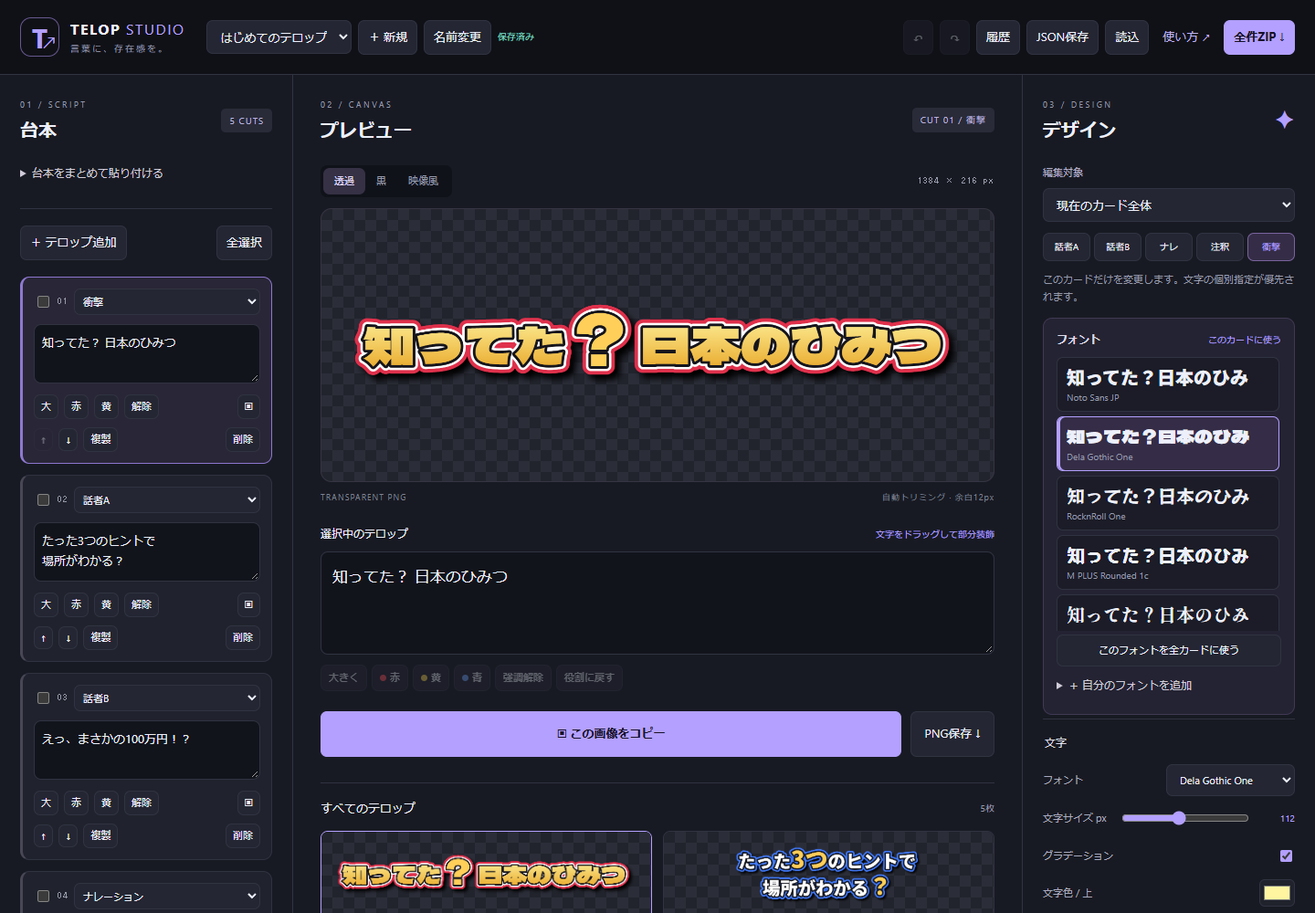
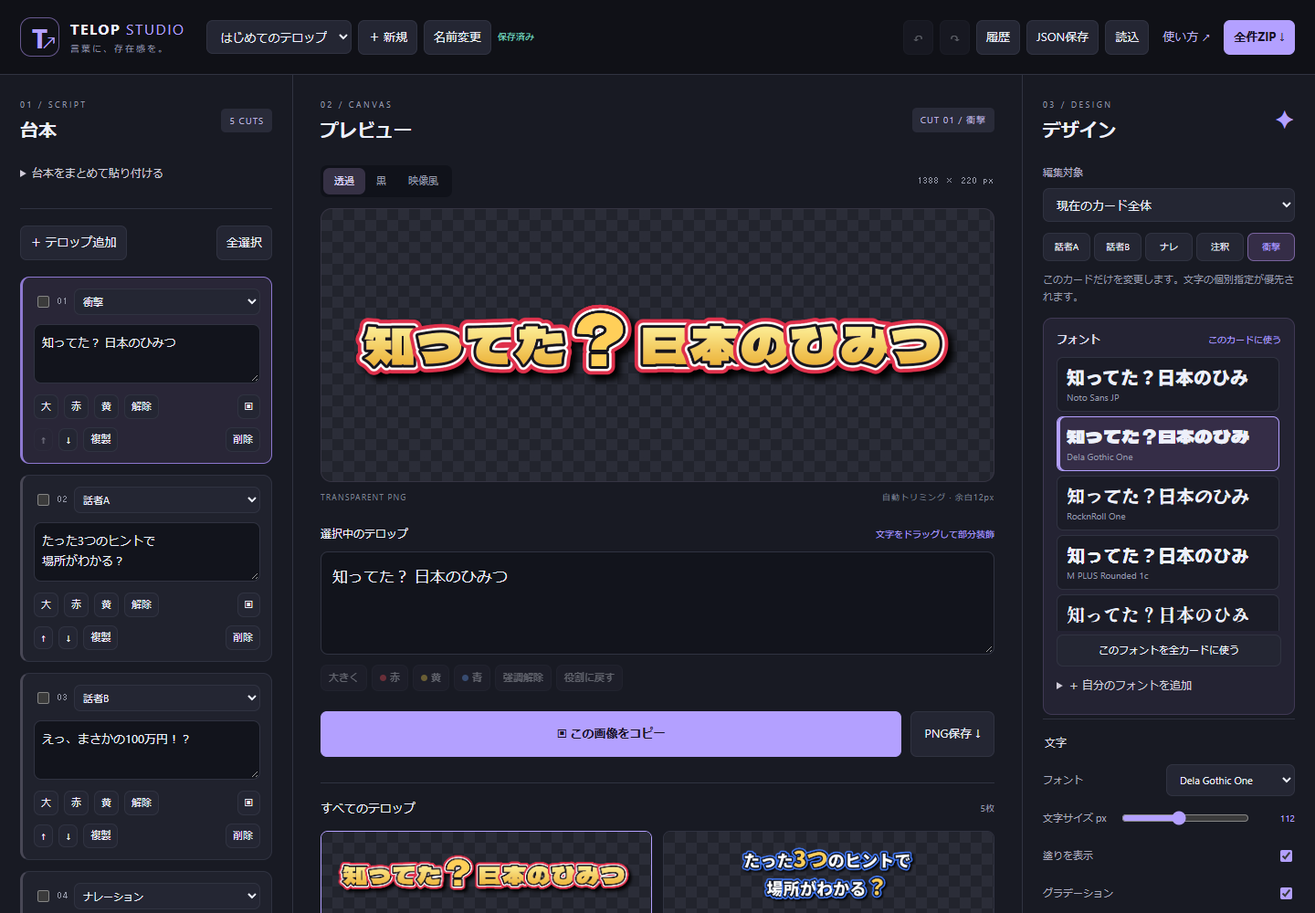
Add v1.2 fill, stroke positioning and per-line backgrounds

diff --git a/manual.html b/manual.html
@@ -1,4 +1,4 @@
-<!doctype html><html lang="ja"><head><meta charset="utf-8"><meta name="viewport" content="width=device-width,initial-scale=1"><title>Telop Studio — 使い方マニュアル</title><style>:root{color-scheme:dark}*{box-sizing:border-box}body{margin:0;background:#11131c;color:#e9edf8;font:15px/1.9 'Segoe UI',Meiryo,sans-serif}header{padding:58px max(24px,calc((100vw - 1040px)/2));background:linear-gradient(140deg,#28203d,#17212d);border-bottom:1px solid #403752}header p{color:#c2b6ed}h1{font-size:40px;line-height:1.3;margin:18px 0}main{max-width:1040px;margin:40px auto;padding:0 24px}h2{font-size:24px;margin:56px 0 18px;color:#c4b3ff}h3{margin-top:26px;font-size:17px}a{color:#bdb0ff}nav{display:flex;gap:20px;flex-wrap:wrap}img{width:100%;border:1px solid #474051;border-radius:12px}table{border-collapse:collapse;width:100%;font-size:14px}td,th{padding:12px 14px;border:1px solid #363848;text-align:left;vertical-align:top}th{background:#242332}pre,.note{background:#232536;border:1px solid #3d3b51;border-radius:9px;padding:18px;overflow:auto}code{color:#b8e6db}li{margin:8px 0}kbd{padding:2px 6px;background:#33354a;border-radius:4px}.badge{font-size:11px;letter-spacing:3px;color:#b6a6ee}footer{margin-top:60px;padding:24px 0;color:#9a9daf;font-size:12px}@media print{body{background:#fff;color:#222}header{background:#eee}h2,a{color:#503490}table,td,th{border-color:#aaa}.note,pre{background:#f3f3f3}h2{break-after:avoid}img{max-height:460px;object-fit:contain}}@media(max-width:600px){h1{font-size:30px}td,th{padding:8px;font-size:12px}}</style></head><body><header><span class="badge">TELOP STUDIO / USER GUIDE</span><h1>テロップを作って、<br>いつもの編集ソフトへ。</h1><p>Ver1.1の画面と操作に基づくマニュアル · 2026年10月17日</p><nav><a href="index.html">アプリを開く ↗</a><a href="specification.html">仕様書</a><a href="#start">起動</a><a href="#edit">文字を装飾</a><a href="#export">書き出し</a><a href="#github">GitHub公開</a></nav></header><main>
+<!doctype html><html lang="ja"><head><meta charset="utf-8"><meta name="viewport" content="width=device-width,initial-scale=1"><title>Telop Studio — 使い方マニュアル</title><style>:root{color-scheme:dark}*{box-sizing:border-box}body{margin:0;background:#11131c;color:#e9edf8;font:15px/1.9 'Segoe UI',Meiryo,sans-serif}header{padding:58px max(24px,calc((100vw - 1040px)/2));background:linear-gradient(140deg,#28203d,#17212d);border-bottom:1px solid #403752}header p{color:#c2b6ed}h1{font-size:40px;line-height:1.3;margin:18px 0}main{max-width:1040px;margin:40px auto;padding:0 24px}h2{font-size:24px;margin:56px 0 18px;color:#c4b3ff}h3{margin-top:26px;font-size:17px}a{color:#bdb0ff}nav{display:flex;gap:20px;flex-wrap:wrap}img{width:100%;border:1px solid #474051;border-radius:12px}table{border-collapse:collapse;width:100%;font-size:14px}td,th{padding:12px 14px;border:1px solid #363848;text-align:left;vertical-align:top}th{background:#242332}pre,.note{background:#232536;border:1px solid #3d3b51;border-radius:9px;padding:18px;overflow:auto}code{color:#b8e6db}li{margin:8px 0}kbd{padding:2px 6px;background:#33354a;border-radius:4px}.badge{font-size:11px;letter-spacing:3px;color:#b6a6ee}footer{margin-top:60px;padding:24px 0;color:#9a9daf;font-size:12px}@media print{body{background:#fff;color:#222}header{background:#eee}h2,a{color:#503490}table,td,th{border-color:#aaa}.note,pre{background:#f3f3f3}h2{break-after:avoid}img{max-height:460px;object-fit:contain}}@media(max-width:600px){h1{font-size:30px}td,th{padding:8px;font-size:12px}}</style></head><body><header><span class="badge">TELOP STUDIO / USER GUIDE</span><h1>テロップを作って、<br>いつもの編集ソフトへ。</h1><p>Ver1.2の画面と操作に基づくマニュアル · 2026年10月17日</p><nav><a href="index.html">アプリを開く ↗</a><a href="specification.html">仕様書</a><a href="#start">起動</a><a href="#edit">文字を装飾</a><a href="#export">書き出し</a><a href="#github">GitHub公開</a></nav></header><main>
 <img src="preview.png" alt="Telop Studioの3カラム編集画面。左に台本、中央にプレビューと入力欄、右にデザイン設定。">
 <h2 id="start">01 / 起動する</h2><p>GitHub Pagesで公開したURLを開けば、そのまま利用できます。ビルド・npm・Node.jsは不要です。Google FontsとJSZipをCDNから取得するため、インターネット接続が必要です。</p><p>ローカルでは、Pythonがインストールされている場合、同梱の <code>start-local.cmd</code> をダブルクリックします。ブラウザで <code>http://localhost:8766</code> を開き、終了時はサーバーのウィンドウで <kbd>Ctrl+C</kbd> を押します。</p><p>手動で起動する場合は、アプリのフォルダーで次を実行します。</p><pre><code>python -m http.server 8766 --bind 127.0.0.1</code></pre><p class="note">ES Modulesを使うため、<code>index.html</code> のダブルクリック（file://）では動きません。仕様書とこのマニュアルは、単独のHTMLとして開けます。localhostと127.0.0.1、ポート違い、GitHub公開URLはそれぞれ別の保存場所です。作業を移すときはJSONを使ってください。</p>
 <h2>02 / まず1枚作る</h2><ol><li>上部の「＋ 新規」でプロジェクトに名前を付けます。空のカードが1枚できます。</li><li>中央の「選択中のテロップ」に文字を入力します。Enterで画像内改行できます。</li><li>左のカードのプルダウンで役割を選びます。</li><li>右のフォント一覧から書体を選びます。配色も変える場合は、下部の「サンプルデザインを試す」を開き、サンプルを選んで「当てる」を押します。</li><li>「PNG保存 ↓」で透過画像を保存します。</li></ol><p>初回起動時は、5枚のサンプルが入った「はじめてのテロップ」が表示されます。サンプルを直接編集しても構いません。</p>
@@ -14,11 +14,11 @@ N: 『地形』に注目してみよう
 ! あなたは解ける？</code></pre><p><strong>空行が次のカードの区切り</strong>です。通常の改行は同じ画像内に残ります。カードを作った後は、左または中央の入力欄でいつでも編集できます。入力欄に文字装飾タグを直接書く必要はありません。</p><table><tr><th>行頭</th><th>役割</th><th>画像上の扱い</th></tr><tr><td>A: / Ａ：</td><td>話者A</td><td>記号を除去</td></tr><tr><td>B: / Ｂ：</td><td>話者B・ツッコミ</td><td>記号を除去</td></tr><tr><td>N: / Ｎ：</td><td>ナレーション</td><td>記号を除去</td></tr><tr><td>※</td><td>注釈</td><td>※を残す</td></tr><tr><td>! / ！</td><td>衝撃・タイトル</td><td>先頭記号を除去</td></tr><tr><td>なし</td><td>話者A</td><td>そのまま</td></tr></table><p>行頭判定は一括取り込み時に行います。作成済みのカード内で「B:」などを入力しても役割は変わりません。役割はプルダウンで変更してください。</p><p>カード下部の「↑」「↓」で順序変更、「複製」で装飾ごとコピー、「削除」で削除できます。「全選択」と各カードのチェックは、セットの複数適用に使います。</p>
 <h2 id="edit">04 / 1文字からデザインを変える</h2><ol><li>中央または左の入力欄で、変えたい文字をドラッグ選択します。</li><li>右の編集対象が「選択した文字」に切り替わります。</li><li>「大きく」「赤」「黄」「青」で素早く変更するか、右の詳細設定を変更します。</li></ol><p>選択した文字だけのフォント・サイズ・グラデーション・3重フチ・影を変更できます。設定欄をクリックして入力欄のハイライトが消えても、最後に選択した範囲を保持します。画面の「○文字を選択中」を目印にしてください。</p><table><tr><th>編集対象</th><th>反映範囲</th></tr><tr><td>現在のカード全体</td><td>今選んでいる1枚だけ。座布団・文字揃えもここで設定。</td></tr><tr><td>選択した文字</td><td>選択範囲だけ。複数文字で設定が異なる場合、右欄には先頭文字の手動設定を表示。</td></tr><tr><td>役割の共通設定</td><td>その役割を継承するカード。下の役割タブで対象を切り替える。</td></tr></table><p><strong>文字の個別指定 → カード個別設定 → 役割共通設定</strong>の順に優先します。自動強調よりも手動の指定が優先されます。例えば手動で色だけ指定した場合、自動強調のサイズ倍率は引き続き有効です。</p><p>「強調解除」は、選択範囲の手動装飾と自動強調を外します。「役割に戻す」は文字の個別指定を消し、カード／役割設定と自動強調を再び継承します。カード全体の「初期値に戻す」はカード個別設定を外し、役割の共通設定に戻します。文字単位の設定は別途解除してください。</p><p>文字を修正した場合、変更されなかった前後の文字の装飾は維持します。新しく入力・置換した文字は個別装飾なしで入り、カードの設定を引き継ぎます。</p>
 <h2>Ver1.1 / 自分のフォントを使う</h2><p>右パネルに見本付きのフォント一覧が加わりました。クリックすると「編集対象」に指定したカード・文字・役割へ反映します。「このフォントを全カードに使う」は、全役割を更新し、カードや部分装飾のフォント指定も揃えます。色やサイズは残ります。「戻る」で取り消せます。</p><ol><li>「＋ 自分のフォントを追加」を開きます。</li><li>フォントファイルから追加する場合は、.ttf / .otf / .woff / .woff2 を選びます。1ファイル30MBまで。登録名はファイル名を基に付きます。</li><li>PCのフォントを使う場合は「PCに入っているフォントから選ぶ」を押し、ブラウザの読み取り許可後に名前で検索します。対応しない環境ではフォント名を直接入力して追加できます。</li><li>追加後、一覧のフォントをクリックして適用します。</li></ol><p>ファイルから追加したフォントはIndexedDBへ保存され、同じブラウザ・同じ公開URLで再利用できます。PCフォントは名前を保存するため、そのPCにインストールされている必要があります。JSONにはフォントファイル本体を含みません。別PCでは同じ名前のフォントを追加してください。削除用の「×」で一覧から外すと、そのフォントを使う文字は代替表示になります。フォントの追加・削除自体は編集履歴の対象外です。</p><p>サンプル適用時の「フォントは今のまま」は初期状態でONです。配色と装飾だけ変えたいときに使います。サンプルに指定されたフォントも使いたい場合はOFFにしてください。</p><h2>05 / デザインセットとマイセット</h2><p>「標準」「解説」「実況」「シリアス」「謎解き」から選び、適用先を「現在のカード」「チェックしたカード」「すべてのカード」から指定します。「部分装飾を残す」を外すと、対象カード内の文字単位の装飾も初期化されます。</p><p>セットを適用したカードには個別設定が付きます。その後で役割の共通設定を変えても、セットから適用した値が優先されます。共通設定に戻したい場合は、そのカードの編集対象を「現在のカード全体」にして「初期値に戻す」を押します。</p><p>「現在の5役割をマイセットに保存」で名前を付けて保存できます。役割の共通設定5つを保存し、現在のカードに個別設定があれば、そのカードの役割には現在の見た目を取り込みます。文字ごとの部分装飾はマイセットに含まれず、プロジェクト側に保存されます。</p><p>マイセットは同じブラウザ内の全プロジェクトで使えます。「マイセット書出」「読込」で別の環境に移せます。</p>
-<h2>06 / 細かいデザイン設定</h2><ul><li><strong>文字：</strong>内蔵5フォント＋追加フォント、12〜240px、単色または上下グラデーション。</li><li><strong>フチ：</strong>1が内側、2が中間、3が外側。太さは外へ積み上がります。各層でON/OFF・色・太さを指定。</li><li><strong>影：</strong>ぼかし・右下への距離・色を設定。</li><li><strong>座布団：</strong>背景色・不透明度・角丸・内側余白・枠線。枠線にも設定した不透明度が適用されます。</li><li><strong>文字揃え：</strong>複数行を左・中央・右で配置。長い文章は自動折り返ししないため、入力欄で改行してください。</li><li><strong>自動強調：</strong>100万円・99%・3つなど、感嘆符、疑問符、『』と【】で囲んだ箇所を検出。倍率と強調色を変更できます。</li></ul><p>プレビューの「透過」「黒」「映像風」は確認用背景です。PNGには背景を含めず、座布団を有効にした場合だけ指定した背景ボックスが含まれます。</p>
+<h2>Ver1.2 / アピアランスの調整</h2><p>右の「文字」にある「塗りを表示」をOFFにすると、文字本体を消してフチだけを出力できます。塗りとすべてのフチをOFFにすると、文字の影も消えます。背景をONにすれば座布団だけを出力できます。</p><p>各「フチ1〜3」の「位置」で外側・中央・内側を選びます。外側は輪郭の外、内側は文字の中、中央は輪郭をまたいで描きます。同じ位置のフチは1から順に太さを積み上げます。位置が異なるフチ同士は別々に計算し、重なる場所では番号の小さいフチが手前になります。</p><p>「線の詳細設定」を開くと、角の結合をラウンド（丸い）・マイター（尖る）・ベベル（角を落とす）から選べます。「角の比率」はマイターが長く伸びすぎるのを制限します。線端はバット・丸型・角型を選べますが、フォントの輪郭は通常閉じているため、文字では見た目が変わらないのが正常です。</p><p>「座布団・配置」の「背景の範囲」は、すべての行をまとめて囲むか、1行ずつの文字幅に合わせて囲むかを選択できます。空の行には行別背景を描きません。内側余白が大きい場合、隣の行の背景とつながります。</p><p>塗り・フチ位置・角の設定は1文字単位にも適用できます。背景の範囲はカード全体または役割に適用します。各設定は履歴・プロジェクト・マイセット・JSONに保存されます。既存プロジェクトは、塗りON・外側フチ・ラウンド・全行背景を初期値として読み込みます。</p><h2>06 / 細かいデザイン設定</h2><ul><li><strong>文字：</strong>内蔵5フォント＋追加フォント、12〜240px、単色または上下グラデーション。</li><li><strong>フチ：</strong>各層でON/OFF・色・太さ・位置を指定。同じ位置では1から順に太さを積み上げます。</li><li><strong>影：</strong>ぼかし・右下への距離・色を設定。</li><li><strong>座布団：</strong>背景色・不透明度・角丸・内側余白・枠線。枠線にも設定した不透明度が適用されます。</li><li><strong>文字揃え：</strong>複数行を左・中央・右で配置。長い文章は自動折り返ししないため、入力欄で改行してください。</li><li><strong>自動強調：</strong>100万円・99%・3つなど、感嘆符、疑問符、『』と【】で囲んだ箇所を検出。倍率と強調色を変更できます。</li></ul><p>プレビューの「透過」「黒」「映像風」は確認用背景です。PNGには背景を含めず、座布団を有効にした場合だけ指定した背景ボックスが含まれます。</p>
 <h2 id="export">07 / 保存して動画編集ソフトへ</h2><h3>単体PNG</h3><p>中央の「PNG保存 ↓」で現在の1枚を保存します。出力画像にはフチと影を含め、可視部分の周囲に12pxの透明余白を付けます。文字数やデザインにより画像寸法が変わるため、編集ソフトでは位置と倍率を確認してください。</p><h3>全件ZIP</h3><p>上部の「全件ZIP ↓」で、カード順に連番を付けてまとめます。ZIPを展開してから編集ソフトへ読み込みます。出力開始時点の台本を使うため、出力中の編集はそのZIPへ反映されません。</p><pre><code>001_A_たった3つのヒントで.png
 002_B_えっ、まさかの100万円！？.png
 003_N_『地形』に注目してみよう.png</code></pre><p>タイトルの役割名はTITLE、注釈はNOTEで出力します。ファイル名に使えない記号は除去します。</p><h3>画像コピー</h3><p>中央の「この画像をコピー」、左のカードの「▣」、サムネイルの「コピー」からPNGをコピーできます。HTTPSまたはlocalhostの対応ブラウザが必要です。ブラウザの権限を求められた場合はコピーを許可してください。</p><p class="note">ブラウザの画像コピー成功は確認済みですが、Clipchamp／Premiereへの直接Ctrl+V取り込みは実機未検証です。貼り付けを受け付けない場合はPNG保存を使ってください。</p><h3>Clipchampで使う</h3><ol><li>PNGを保存します。一括ZIPの場合は展開します。</li><li>Clipchampの「メディアのインポート」からPNGを読み込みます。</li><li>映像より上のトラックへ画像を配置します。</li><li>画面内の位置・大きさ・表示時間を調整します。</li></ol><p>画像をインポートして映像の上に重ねる流れは、<a href="https://support.microsoft.com/en-us/clipchamp/how-to-add-a-logo-to-a-video" target="_blank" rel="noreferrer">Microsoft公式の画像配置手順</a>に基づきます。今回、ユーザーのClipchampプロジェクトを操作しての取り込み確認はしていません。</p>
 <h2>08 / 保存・バックアップ・履歴</h2><p>変更は短い待ち時間の後にブラウザへ自動保存されます。プロジェクト切り替えは上部の名前欄から行います。ブラウザのデータ削除や別ブラウザへの変更では保存データを引き継げません。</p><ul><li><strong>JSON保存：</strong>現在のプロジェクトとマイセット一覧を書き出します。画像だけでなく、後から装飾を編集できる状態を保存します。</li><li><strong>読込：</strong>プロジェクトを新しい項目として追加します。既存のものを上書きしません。</li><li><strong>↶ / ↷：</strong>戻る・やり直す。WindowsではCtrl+Z、Ctrl+Shift+ZまたはCtrl+Yも利用できます。</li><li><strong>履歴：</strong>一覧から戻したい状態を選べます。直近50操作とその前の基準状態を保持します。</li></ul><p>連続入力と短時間の同じスライダー操作は1操作にまとめます。履歴はプロジェクトごとに保持しますが、アプリを再読み込みすると最新状態だけが残ります。プロジェクト新規作成・切り替え、マイセット登録、JSON読み込みは編集履歴の対象外です。</p>
 <h2 id="github">09 / GitHub Pagesで公開する</h2><ol><li>GitHubで公開先リポジトリを用意します。</li><li>配布ZIPを展開し、<strong>telop-studioフォルダーの中身</strong>をリポジトリのルートに置きます。<code>index.html</code> と <code>js/</code> がルート直下になる形です。</li><li>リポジトリの <strong>Settings → Pages</strong> を開きます。</li><li>Sourceで <strong>Deploy from a branch</strong> を選び、Branchを <strong>main</strong>、フォルダーを <strong>/(root)</strong> にして保存します。</li><li>公開完了後、Pages画面に表示されたURLを開きます。</li></ol><p><a href="https://docs.github.com/en/pages/getting-started-with-github-pages/configuring-a-publishing-source-for-your-github-pages-site" target="_blank" rel="noreferrer">GitHub公式：公開元の設定</a>。同梱の <code>.nojekyll</code> を含めて配置してください。ビルド設定は不要です。このアプリの公開先は <a href="https://sakrainari.github.io/telopstudio/">sakrainari.github.io/telopstudio</a> です。mainブランチのルートを公開元に設定しています。</p>
 <h2>10 / 困ったとき</h2><table><tr><th>状況</th><th>対処</th></tr><tr><td>操作が反応しない</td><td>file://ではなくHTTP/HTTPSで開いているか確認。JavaScriptを有効にする。</td></tr><tr><td>フォントが違う</td><td>インターネット接続後に再読み込み。CDNが遮断される環境では代替フォントになる。</td></tr><tr><td>役割の色を変えても反映しない</td><td>カードや文字の個別設定が優先されていないか確認。必要な範囲だけ継承へ戻す。</td></tr><tr><td>コピーできない</td><td>HTTPS／localhostとブラウザ権限を確認し、PNG保存を利用。</td></tr><tr><td>ZIPを作れない</td><td>JSZipのCDN読み込みを確認。描画エラーがある場合は表示された番号のカードを修正。</td></tr><tr><td>画像が大きすぎる</td><td>改行、文字サイズ縮小、カード分割。作業Canvasは一辺16384px・総面積2400万画素以内。</td></tr><tr><td>保存失敗が出た</td><td>LocalStorageの容量や利用制限を確認。まずJSONで保存する。</td></tr></table><p>上限はプロジェクト100件、1プロジェクト300枚、1枚5000文字、マイセット100件、読み込みJSON 20MBです。実際にブラウザへ保存できる量は環境の容量制限にも依存します。</p>
-<h2>11 / 確認したこと</h2><p>Ver1.1ではChromeで実フォントファイルの読み込み・IndexedDBからの復元・フォント名のJSON維持・全カードへの変更と取り消し・サンプル適用時のフォント保持・破損フォントの拒否・PCフォントの実一覧取得と検索を確認しました。</p><p>Chromeの実ブラウザで、初期5役割、空行分割、部分装飾、文字編集後の装飾維持、戻る／やり直す、履歴表示、新規プロジェクト、LocalStorage復元、JSON往復、マイセット登録、セット適用時の部分装飾保持、PNG／ZIPダウンロード、Clipboard APIの画像コピーを確認しました。全5役割の出力画像で12pxの透明余白と、ZIP内のPNG署名・連番を検査しています。</p><p>Clipchamp／Premiereでの取り込み、他ブラウザでの画像コピーは未検証です。</p><footer>Telop Studio · 仕様書 → 実装 → 動作検証 → 本マニュアルの順で作成。Google Fonts / JSZipを利用。</footer></main></body></html>
+<h2>11 / 確認したこと</h2><p>Ver1.2ではフチ位置による実際の画像寸法の違い、内側フチの中抜き、塗り・フチOFF時の不要な影がないこと、角の結合による画素差、マイターの見切れ防止、行別背景の範囲、透明余白12px、設定の保存復元・JSON保持を検証しました。既存の編集・フォント追加・PNG／ZIP出力の回帰テストも通過しています。</p><p>Ver1.1ではChromeで実フォントファイルの読み込み・IndexedDBからの復元・フォント名のJSON維持・全カードへの変更と取り消し・サンプル適用時のフォント保持・破損フォントの拒否・PCフォントの実一覧取得と検索を確認しました。</p><p>Chromeの実ブラウザで、初期5役割、空行分割、部分装飾、文字編集後の装飾維持、戻る／やり直す、履歴表示、新規プロジェクト、LocalStorage復元、JSON往復、マイセット登録、セット適用時の部分装飾保持、PNG／ZIPダウンロード、Clipboard APIの画像コピーを確認しました。全5役割の出力画像で12pxの透明余白と、ZIP内のPNG署名・連番を検査しています。</p><p>Clipchamp／Premiereでの取り込み、他ブラウザでの画像コピーは未検証です。</p><footer>Telop Studio · 仕様書 → 実装 → 動作検証 → 本マニュアルの順で作成。Google Fonts / JSZipを利用。</footer></main></body></html>

diff --git a/js/renderer.js b/js/renderer.js
@@ -3,37 +3,53 @@ import {allFonts,weightOf} from './fonts.js';
 import {tokens} from './parser.js';
 export function fontString(style){return `${weightOf(style.font)} ${style.size}px "${style.font}", sans-serif`;}
 export function loadFonts(text='日本語テロップ'){return Promise.allSettled(allFonts().map(({family:font})=>document.fonts.load(fontString({font,size:40}),text||'日本語テロップ')));}
-const canvas=(w,h)=>{const c=document.createElement('canvas');c.width=w;c.height=h;return c;};
+const canvas=(w,h)=>{const c=document.createElement('canvas');c.width=Math.ceil(w);c.height=Math.ceil(h);return c;};
 export function crop(source){
- const ctx=source.getContext('2d',{willReadFrequently:true}),{width:w,height:h}=source,data=ctx.getImageData(0,0,w,h).data;
+ const {width:w,height:h}=source,data=source.getContext('2d',{willReadFrequently:true}).getImageData(0,0,w,h).data;
  let minX=w,minY=h,maxX=-1,maxY=-1;
  for(let y=0;y<h;y++)for(let x=0;x<w;x++)if(data[(y*w+x)*4+3]>0){minX=Math.min(minX,x);maxX=Math.max(maxX,x);minY=Math.min(minY,y);maxY=Math.max(maxY,y);}
  if(maxX<0)return canvas(24,24);
  if(minX===0||minY===0||maxX===w-1||maxY===h-1)throw Error('描画範囲を超えました。文字サイズ・影を小さくしてください。');
  const out=canvas(maxX-minX+25,maxY-minY+25);out.getContext('2d').drawImage(source,minX,minY,maxX-minX+1,maxY-minY+1,12,12,maxX-minX+1,maxY-minY+1);return out;
 }
+const position=e=>e.position||'outside';
+// Widths stack only with preceding strokes on the same side of the glyph.
+function strokeWidth(s,index){const e=s.edges[index];return s.edges.slice(0,index+1).reduce((n,x)=>n+(x.on&&position(x)===position(e)?x.width:0),0)*(position(e)==='center'?1:2);}
+function extent(s){return s.edges.reduce((n,e,i)=>Math.max(n,e.on&&position(e)!=='inside'?strokeWidth(s,i)/2:0),0)*(s.lineJoin==='miter'?(s.miterLimit||2):1);}
+function glyph(t){
+ const s=t.style,pad=Math.ceil(extent(s)+s.size*.3+8),w=Math.ceil(t.width+pad*2),h=Math.ceil(t.ascent+t.descent+pad*2),x=pad,y=pad+t.ascent;
+ const mask=canvas(w,h),mc=mask.getContext('2d');mc.font=fontString(s);mc.fillText(t.char,x,y);
+ const out=canvas(w,h),ctx=out.getContext('2d');
+ if(s.fillOn!==false){ctx.font=fontString(s);ctx.fillStyle=s.color;if(s.gradient){const g=ctx.createLinearGradient(0,pad,0,pad+t.ascent+t.descent);g.addColorStop(0,s.color);g.addColorStop(1,s.color2);ctx.fillStyle=g;}ctx.fillText(t.char,x,y);}
+ const layer=canvas(w,h),lc=layer.getContext('2d');
+ for(let i=2;i>=0;i--){const e=s.edges[i];if(!e.on||!e.width)continue;lc.clearRect(0,0,w,h);lc.font=fontString(s);lc.lineJoin=s.lineJoin||'round';lc.lineCap=s.lineCap||'butt';lc.miterLimit=s.miterLimit||2;lc.lineWidth=strokeWidth(s,i);lc.strokeStyle=e.color;lc.strokeText(t.char,x,y);
+  if(position(e)!=='center'){lc.globalCompositeOperation=position(e)==='inside'?'destination-in':'destination-out';lc.drawImage(mask,0,0);lc.globalCompositeOperation='source-over';}
+  ctx.drawImage(layer,0,0);
+ }
+ return {image:out,pad};
+}
 export function render(row,roles){
  const style=mergeStyle(roles[row.role],row.override),measure=canvas(1,1).getContext('2d');
- const lines=[{items:[],width:0,ascent:style.size*.85,descent:style.size*.2}];let effect=0,maxSize=style.size;
+ const makeLine=()=>({items:[],width:0,ascent:style.size*.85,descent:style.size*.2});const lines=[makeLine()];let effect=0,maxSize=style.size;
  for(const token of tokens(row,style)){
-  if(token.char==='\n'){lines.push({items:[],width:0,ascent:style.size*.85,descent:style.size*.2});continue;}
-  const s=token.style;measure.font=fontString(s);const m=measure.measureText(token.char),line=lines.at(-1);
-  line.items.push({...token,x:line.width});line.width+=m.width;
-  line.ascent=Math.max(line.ascent,m.actualBoundingBoxAscent||s.size*.85);line.descent=Math.max(line.descent,m.actualBoundingBoxDescent||s.size*.2);
-  maxSize=Math.max(maxSize,s.size);const stroke=s.edges.reduce((n,e)=>n+(e.on?e.width:0),0);
-  effect=Math.max(effect,stroke+(s.shadow.on?s.shadow.blur*4+s.shadow.distance:0),Math.abs(m.actualBoundingBoxLeft||0),Math.max(0,(m.actualBoundingBoxRight||0)-m.width));
+  if(token.char==='\n'){lines.push(makeLine());continue;}
+  const s=token.style;measure.font=fontString(s);const m=measure.measureText(token.char),line=lines.at(-1),ascent=Math.max(s.size*.85,m.actualBoundingBoxAscent||0),descent=Math.max(s.size*.2,m.actualBoundingBoxDescent||0);
+  line.items.push({...token,x:line.width,width:m.width,ascent,descent});line.width+=m.width;line.ascent=Math.max(line.ascent,ascent);line.descent=Math.max(line.descent,descent);
+  maxSize=Math.max(maxSize,s.size);effect=Math.max(effect,extent(s)+(s.shadow.on?s.shadow.blur*4+s.shadow.distance:0),Math.abs(m.actualBoundingBoxLeft||0),Math.max(0,(m.actualBoundingBoxRight||0)-m.width));
  }
  const gap=Math.max(16,maxSize*.18+effect*.12),textW=Math.max(1,...lines.map(l=>l.width)),textH=lines.reduce((n,l)=>n+l.ascent+l.descent,0)+gap*(lines.length-1);
  const pad=style.box.on?style.box.padding:0,margin=Math.ceil(effect+maxSize*.3+style.box.border+32),w=Math.ceil(textW+pad*2+margin*2),h=Math.ceil(textH+pad*2+margin*2);
  if(w>16384||h>16384||w*h>24000000)throw Error('画像が大きすぎます。カードを分割するか、改行・文字サイズを調整してください。');
- const work=canvas(w,h),ctx=work.getContext('2d',{willReadFrequently:true});ctx.lineJoin='round';ctx.miterLimit=2;
- if(style.box.on){const b=style.box;ctx.save();ctx.globalAlpha=b.opacity;ctx.fillStyle=b.color;ctx.strokeStyle=b.borderColor;ctx.lineWidth=b.border;ctx.beginPath();ctx.roundRect(margin,margin,textW+pad*2,textH+pad*2,b.radius);ctx.fill();if(b.border>0)ctx.stroke();ctx.restore();}
- const positioned=[];let y=margin+pad;
- for(const line of lines){const offset=style.align==='left'?0:style.align==='right'?textW-line.width:(textW-line.width)/2;
-  for(const t of line.items)positioned.push({...t,x:margin+pad+offset+t.x,y:y+line.ascent,ascent:line.ascent,descent:line.descent});y+=line.ascent+line.descent+gap;}
- // Render complete layers, so adjacent glyph outlines never paint over fills.
- for(const t of positioned){const s=t.style;if(!s.shadow.on)continue;ctx.save();ctx.font=fontString(s);ctx.shadowColor=s.shadow.color;ctx.shadowBlur=s.shadow.blur;ctx.shadowOffsetX=s.shadow.distance;ctx.shadowOffsetY=s.shadow.distance;ctx.fillStyle=s.edges.findLast(e=>e.on)?.color||s.color;const width=s.edges.reduce((n,e)=>n+(e.on?e.width:0),0);if(width){ctx.lineWidth=width*2;ctx.strokeStyle=ctx.fillStyle;ctx.strokeText(t.char,t.x,t.y);}ctx.fillText(t.char,t.x,t.y);ctx.restore();}
- for(let layer=2;layer>=0;layer--)for(const t of positioned){const s=t.style;if(!s.edges[layer].on)continue;const width=s.edges.slice(0,layer+1).reduce((n,e)=>n+(e.on?e.width:0),0);if(!width)continue;ctx.font=fontString(s);ctx.lineWidth=width*2;ctx.strokeStyle=s.edges[layer].color;ctx.strokeText(t.char,t.x,t.y);}
- for(const t of positioned){const s=t.style;ctx.font=fontString(s);ctx.fillStyle=s.color;if(s.gradient){const g=ctx.createLinearGradient(0,t.y-t.ascent,0,t.y+t.descent);g.addColorStop(0,s.color);g.addColorStop(1,s.color2);ctx.fillStyle=g;}ctx.fillText(t.char,t.x,t.y);}
- return crop(work);
+ const work=canvas(w,h),ctx=work.getContext('2d',{willReadFrequently:true}),foreground=canvas(w,h),fg=foreground.getContext('2d');let y=margin+pad;
+ for(const line of lines){line.left=margin+pad+(style.align==='left'?0:style.align==='right'?textW-line.width:(textW-line.width)/2);line.top=y;y+=line.ascent+line.descent+gap;}
+ if(style.box.on){const b=style.box,back=canvas(w,h),bc=back.getContext('2d');bc.fillStyle=b.color;bc.strokeStyle=b.borderColor;bc.lineWidth=b.border;
+  const rectangles=b.mode==='line'?lines.filter(l=>l.items.length).map(l=>[l.left-pad,l.top-pad,l.width+pad*2,l.ascent+l.descent+pad*2]):[[margin,margin,textW+pad*2,textH+pad*2]];
+  // One compound path avoids dark seams where translucent line boxes overlap.
+  bc.beginPath();for(const r of rectangles)bc.roundRect(...r,b.radius);bc.fill();if(b.border>0)bc.stroke();ctx.save();ctx.globalAlpha=b.opacity;ctx.drawImage(back,0,0);ctx.restore();
+ }
+ for(const line of lines)for(const t of line.items){const {image,pad:gp}=glyph(t),s=t.style,x=line.left+t.x-gp,y=line.top+line.ascent-t.ascent-gp;
+  if(s.shadow.on){ctx.save();ctx.shadowColor=s.shadow.color;ctx.shadowBlur=s.shadow.blur;ctx.shadowOffsetX=s.shadow.distance;ctx.shadowOffsetY=s.shadow.distance;ctx.drawImage(image,x,y);ctx.restore();}
+  fg.drawImage(image,x,y);
+ }
+ ctx.drawImage(foreground,0,0);return crop(work);
 }

diff --git a/specification.html b/specification.html
@@ -5,4 +5,4 @@
 <h2>4. デザイン</h2><table><tr><th>役割</th><th>初期デザイン</th></tr><tr><td>A メイン</td><td>Noto Sans JP 900、白、黒内フチ＋青外フチ、影</td></tr><tr><td>B ツッコミ</td><td>RocknRoll One、黄→橙、黒＋赤フチ、影</td></tr><tr><td>N ナレーション</td><td>M PLUS Rounded 1c 800、白、細黒フチ、半透明黒座布団</td></tr><tr><td>※ 注釈</td><td>Noto Sans JP 900、小、黒、白座布団＋黒枠</td></tr><tr><td>! 衝撃</td><td>Dela Gothic One、大、金グラデ、黒＋白＋赤フチ、強い影</td></tr></table><p>Shippori Mincho B1 800も選択可能。標準・解説・実況・シリアス・謎解きの5セットを搭載。適用範囲は現在／複数選択／全件。部分装飾を保持するか消去するか選べる。マイセットには5役割のデザインをまとめて保存する。</p>
 <h2>5. 描画・出力</h2><p>Canvasに座布団→影→フチ3→フチ2→フチ1→文字を描く。lineJoin='round'、miterLimit=2。サイズの違う文字はベースラインを揃え、改行と左／中央／右揃えに対応。自動強調は数字＋単位・感嘆符・『』【】の範囲。ON/OFF、倍率、色を設定可能。</p><p>描画後に全画素のアルファ値&gt;0を走査し、可視領域を抽出。透明な12pxの安全余白を新しいCanvasに加える。作業Canvasは実測した文字・フチ・影の範囲に余白を確保する。極端な寸法は描画前にエラー表示する。</p><p>PNG単体保存、Clipboard APIによるimage/pngコピー、JSZipによる連番ファイル一括保存。例：001_A_こんにちは.png。コピー成功を通知し、権限拒否や非対応時はPNG保存を案内する。直接貼り付けが編集ソフトで受理されることは別途検証対象。Clipchampを主な確認先とする。</p>
 <h2>6. プロジェクト・履歴</h2><p>名前付きプロジェクトに台本・役割・個別装飾・役割設定・選択行を自動保存。プロジェクト／マイセットをJSONとして書き出し・読み込みできる。読み込みは検証し既存プロジェクトと別に追加。保存容量不足は画面で知らせる。</p><p>プロジェクトごとに直近50操作をメモリ内に保持。戻る／やり直す、履歴一覧からの復元。連続入力・スライダードラッグはまとめる。再読み込み後は最新の保存状態のみ復元。</p>
-<h2>7. ファイル</h2><p><code>index.html / style.css / js/main.js / js/presets.js / js/parser.js / js/renderer.js / js/exporter.js</code>。付属ドキュメントは本仕様書と、完成後に作成する操作マニュアル。</p><h2>8. 完成確認</h2><p>カード編集・部分装飾・セット適用・保存復元・履歴・JSON往復・PNG寸法と透明余白・ZIP内の連番PNGを確認する。ブラウザで画面とエラーを確認する。外部編集ソフトへの取り込みを実機確認できない場合は、その制限を明記する。</p><h2>Ver1.1 追加仕様（2026-10-17）</h2><p>右パネルに見本付きフォント一覧。フォントファイル（TTF/OTF/WOFF/WOFF2、1ファイル30MB以下）をFontFaceで読み込み、IndexedDBに保存。PCフォントはLocal Font Access APIによる一覧取得、または名前登録で追加。JSONにはフォント名だけを含む。全カード・全役割へのフォント適用は文字単位のフォント指定も統一し、編集履歴で戻せる。サンプルデザインは下部に折りたたみ、適用時に既存フォントを維持する選択肢を追加。追加フォント管理用にjs/fonts.jsを新設。</p></body></html>
+<h2>7. ファイル</h2><p><code>index.html / style.css / js/main.js / js/presets.js / js/parser.js / js/renderer.js / js/exporter.js</code>。付属ドキュメントは本仕様書と、完成後に作成する操作マニュアル。</p><h2>8. 完成確認</h2><p>カード編集・部分装飾・セット適用・保存復元・履歴・JSON往復・PNG寸法と透明余白・ZIP内の連番PNGを確認する。ブラウザで画面とエラーを確認する。外部編集ソフトへの取り込みを実機確認できない場合は、その制限を明記する。</p><h2>Ver1.1 追加仕様（2026-10-17）</h2><p>右パネルに見本付きフォント一覧。フォントファイル（TTF/OTF/WOFF/WOFF2、1ファイル30MB以下）をFontFaceで読み込み、IndexedDBに保存。PCフォントはLocal Font Access APIによる一覧取得、または名前登録で追加。JSONにはフォント名だけを含む。全カード・全役割へのフォント適用は文字単位のフォント指定も統一し、編集履歴で戻せる。サンプルデザインは下部に折りたたみ、適用時に既存フォントを維持する選択肢を追加。追加フォント管理用にjs/fonts.jsを新設。</p><h2>Ver1.2 追加仕様（2026-10-17）</h2><p>塗りON/OFF、各フチの外側・中央・内側、ラウンド／マイター／ベベル結合、マイター比率1〜10、線端バット／丸型／角型、背景の全行／行別を追加。線端は閉じた文字輪郭では通常差が出ないことをUIで明示。文字マスクにより内外を分離し、透明な中抜きと影を合成。新設定は部分装飾・保存・履歴・JSONに対応。旧データには互換初期値を適用。</p></body></html>

diff --git a/js/main.js b/js/main.js
@@ -50,10 +50,12 @@ function syncSettings(){const partial=state.scope==='selection';$('scope').value
  $('selectionLabel').textContent=state.range?`${state.range.end-state.range.start}文字を選択中`:'文字をドラッグして部分装飾';
  document.querySelectorAll('[data-quick]').forEach(b=>b.disabled=!state.range);
  const f=field;
- let html=group('文字',f('font','フォント','select',{values:fontOptions()})+f('size','文字サイズ px','range',{min:12,max:240})+f('gradient','グラデーション','checkbox')+f('color','文字色 / 上','color')+f('color2','文字色 / 下','color'));
- for(let i=0;i<3;i++)html+=group(`フチ ${i+1} · ${['内側','中間','外側'][i]}`,f(`edges.${i}.on`,'有効','checkbox')+f(`edges.${i}.color`,'色','color')+f(`edges.${i}.width`,'太さ px','range',{min:0,max:24}));
+ let html=group('文字',f('font','フォント','select',{values:fontOptions()})+f('size','文字サイズ px','range',{min:12,max:240})+f('fillOn','塗りを表示','checkbox')+f('gradient','グラデーション','checkbox')+f('color','文字色 / 上','color')+f('color2','文字色 / 下','color'));
+ for(let i=0;i<3;i++)html+=group(`フチ ${i+1}`,f(`edges.${i}.on`,'有効','checkbox')+f(`edges.${i}.color`,'色','color')+f(`edges.${i}.width`,'太さ px','range',{min:0,max:24})+f(`edges.${i}.position`,'位置','select',{values:[['outside','外側'],['center','中央'],['inside','内側']]}));
+ const detailOpen=$('strokeDetails')?.open;
+ html+=`<details id="strokeDetails" ${detailOpen?'open':''}><summary>線の詳細設定</summary>`+group('ストロークスタイル',f('lineJoin','角の結合','select',{values:[['round','ラウンド'],['miter','マイター'],['bevel','ベベル']]})+f('miterLimit','角の比率','range',{min:1,max:10,step:.1})+f('lineCap','線端','select',{values:[['butt','バット'],['round','丸型'],['square','角型']]})+'<p class="hint">線端は閉じた文字の輪郭では通常、見た目が変わりません。角の比率はマイター結合時に使います。</p>')+'</details>';
  html+=group('ドロップシャドウ',f('shadow.on','有効','checkbox')+f('shadow.blur','ぼかし','range',{min:0,max:50})+f('shadow.distance','距離','range',{min:0,max:60})+f('shadow.color','色','color'));
- if(!partial){html+=group('座布団・配置',f('align','文字揃え','select',{values:[['left','左'],['center','中央'],['right','右']]})+f('box.on','座布団を表示','checkbox')+f('box.color','背景色','color')+f('box.opacity','不透明度','range',{min:0,max:1,step:.05})+f('box.radius','角丸 px','range',{min:0,max:100})+f('box.padding','内側余白 px','range',{min:0,max:100})+f('box.border','枠線 px','range',{min:0,max:12})+f('box.borderColor','枠線色','color'));
+ if(!partial){html+=group('座布団・配置',f('align','文字揃え','select',{values:[['left','左'],['center','中央'],['right','右']]})+f('box.on','座布団を表示','checkbox')+f('box.mode','背景の範囲','select',{values:[['all','すべての行'],['line','1行ずつ']]})+f('box.color','背景色','color')+f('box.opacity','不透明度','range',{min:0,max:1,step:.05})+f('box.radius','角丸 px','range',{min:0,max:100})+f('box.padding','内側余白 px','range',{min:0,max:100})+f('box.border','枠線 px','range',{min:0,max:12})+f('box.borderColor','枠線色','color'));
  html+=group('自動強調',f('auto.on','数字・記号・括弧','checkbox')+f('auto.scale','拡大倍率','range',{min:1,max:2,step:.05})+f('auto.color','強調色','color'));}
  $('settings').innerHTML=html;
  $('settings').querySelectorAll('input,select').forEach(el=>el.disabled=state.scope!=='role'&&(!row()||(partial&&!state.range)));

diff --git a/js/presets.js b/js/presets.js
@@ -2,8 +2,8 @@ export const FONTS = ['Noto Sans JP','Dela Gothic One','RocknRoll One','M PLUS R
 export const ROLES = {A:'話者A',B:'話者B',N:'ナレーション','※':'注釈','!':'衝撃'};
 export const clone = value => structuredClone(value);
 export const uid = () => crypto.randomUUID();
-const edge = (on,color,width) => ({on,color,width});
-const base = () => ({font:FONTS[0],size:88,color:'#ffffff',color2:'#ffcf59',gradient:false,edges:[edge(true,'#11131b',7),edge(true,'#427cff',7),edge(false,'#ff434f',6)],shadow:{on:true,blur:10,distance:8,color:'#000000'},box:{on:false,color:'#000000',opacity:.65,radius:18,padding:22,border:0,borderColor:'#111111'},auto:{on:true,scale:1.3,color:'#ffcf59'},align:'center'});
+const edge = (on,color,width) => ({on,color,width,position:'outside'});
+const base = () => ({font:FONTS[0],size:88,color:'#ffffff',color2:'#ffcf59',gradient:false,fillOn:true,lineJoin:'round',lineCap:'butt',miterLimit:2,edges:[edge(true,'#11131b',7),edge(true,'#427cff',7),edge(false,'#ff434f',6)],shadow:{on:true,blur:10,distance:8,color:'#000000'},box:{on:false,color:'#000000',opacity:.65,radius:18,padding:22,border:0,borderColor:'#111111',mode:'all'},auto:{on:true,scale:1.3,color:'#ffcf59'},align:'center'});
 export function defaults(){
   const A=base(),B=base(),N=base(),note=base(),bang=base();
   Object.assign(B,{font:FONTS[2],gradient:true,color:'#ffed6a',color2:'#ff902b'}); B.edges[1].color='#e64343';
@@ -36,14 +36,19 @@ export function cleanStyle(input,partial=false){
  if(['left','center','right'].includes(input.align))out.align=input.align;
  for(const k of ['color','color2'])if(color(input[k]))out[k]=input[k];
  if(typeof input.gradient==='boolean')out.gradient=input.gradient;
+ if(typeof input.fillOn==='boolean')out.fillOn=input.fillOn;
+ if(['round','miter','bevel'].includes(input.lineJoin))out.lineJoin=input.lineJoin;
+ if(['butt','round','square'].includes(input.lineCap))out.lineCap=input.lineCap;
+ const miter=number(input.miterLimit,1,10);if(miter!==undefined)out.miterLimit=miter;
  const size=number(input.size,12,240);if(size!==undefined)out.size=size;
  for(const [section,limits] of Object.entries({shadow:{blur:[0,50],distance:[0,60]},box:{opacity:[0,1],radius:[0,100],padding:[0,100],border:[0,12]},auto:{scale:[1,2]}})){
   const p=input[section]; if(!p||typeof p!=='object')continue;out[section]={};
   if(typeof p.on==='boolean')out[section].on=p.on;
+  if(section==='box'&&['all','line'].includes(p.mode))out.box.mode=p.mode;
   for(const k of ['color','borderColor'])if(color(p[k]))out[section][k]=p[k];
   for(const [k,range] of Object.entries(limits)){const n=number(p[k],...range);if(n!==undefined)out[section][k]=n;}
  }
- if(Array.isArray(input.edges))out.edges=b.edges.map((e,i)=>{const p=input.edges[i]||{},o={};if(typeof p.on==='boolean')o.on=p.on;if(color(p.color))o.color=p.color;const w=number(p.width,0,24);if(w!==undefined)o.width=w;return o;});
+ if(Array.isArray(input.edges))out.edges=b.edges.map((e,i)=>{const p=input.edges[i]||{},o={};if(typeof p.on==='boolean')o.on=p.on;if(color(p.color))o.color=p.color;if(['outside','center','inside'].includes(p.position))o.position=p.position;const w=number(p.width,0,24);if(w!==undefined)o.width=w;return o;});
  if(input.noAuto===true)out.noAuto=true;
  return partial?out:mergeStyle(b,out);
 }

diff --git a/index.html b/index.html
@@ -1,5 +1,5 @@
 <!doctype html>
-<html lang="ja"><head><meta charset="utf-8"><meta name="viewport" content="width=device-width,initial-scale=1"><meta name="theme-color" content="#12131b"><title>Telop Studio Ver1.1 — テロップメーカー</title>
+<html lang="ja"><head><meta charset="utf-8"><meta name="viewport" content="width=device-width,initial-scale=1"><meta name="theme-color" content="#12131b"><title>Telop Studio Ver1.2 — テロップメーカー</title>
 <link rel="preconnect" href="https://fonts.googleapis.com"><link rel="preconnect" href="https://fonts.gstatic.com" crossorigin>
 <link href="https://fonts.googleapis.com/css2?family=Noto+Sans+JP:wght@900&family=Dela+Gothic+One&family=RocknRoll+One&family=M+PLUS+Rounded+1c:wght@800&family=Shippori+Mincho+B1:wght@800&display=swap" rel="stylesheet">
 <script defer src="https://cdn.jsdelivr.net/npm/jszip@3.10.1/dist/jszip.min.js"></script><link rel="stylesheet" href="style.css"><script type="module" src="js/main.js"></script><script>if(location.protocol==='file:')addEventListener('DOMContentLoaded',()=>{const notice=document.createElement('div');notice.textContent='このアプリはGitHub PagesまたはローカルHTTPサーバーで開いてください。起動方法は「使い方」にあります。';notice.style.cssText='position:fixed;inset:0 0 auto;padding:24px;background:#ffe2a6;color:#251a0a;z-index:99';document.body.append(notice);});</script></head>
